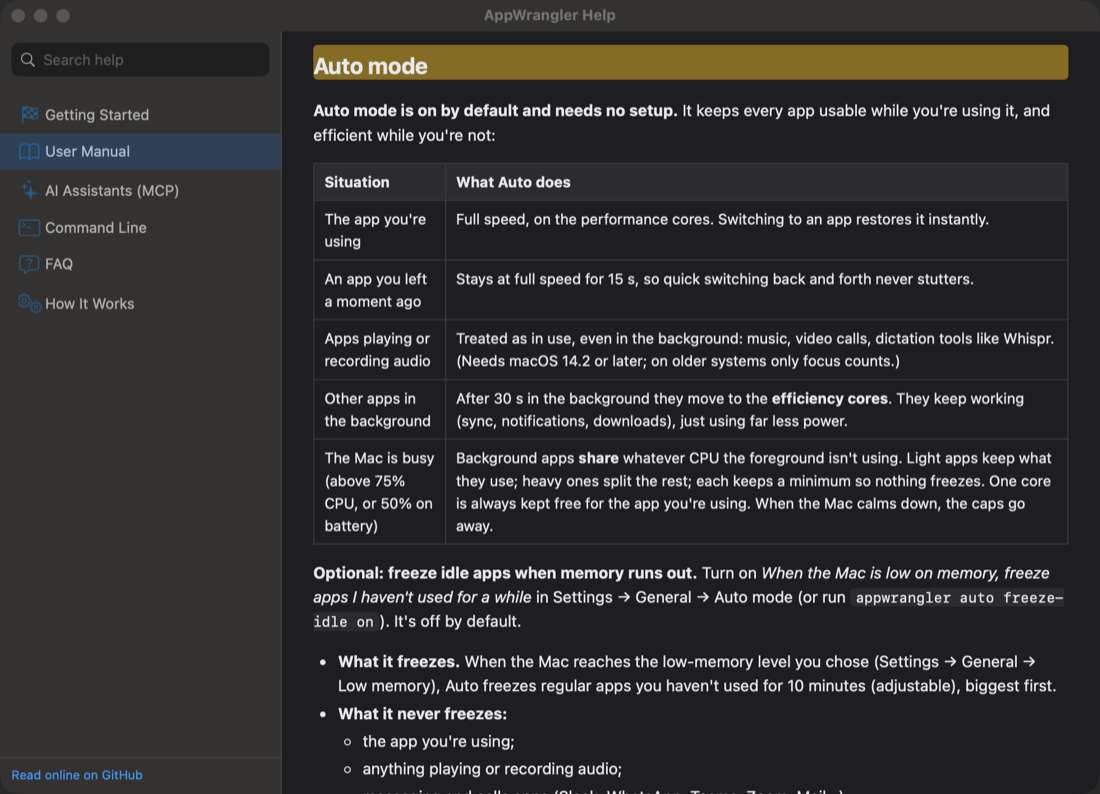
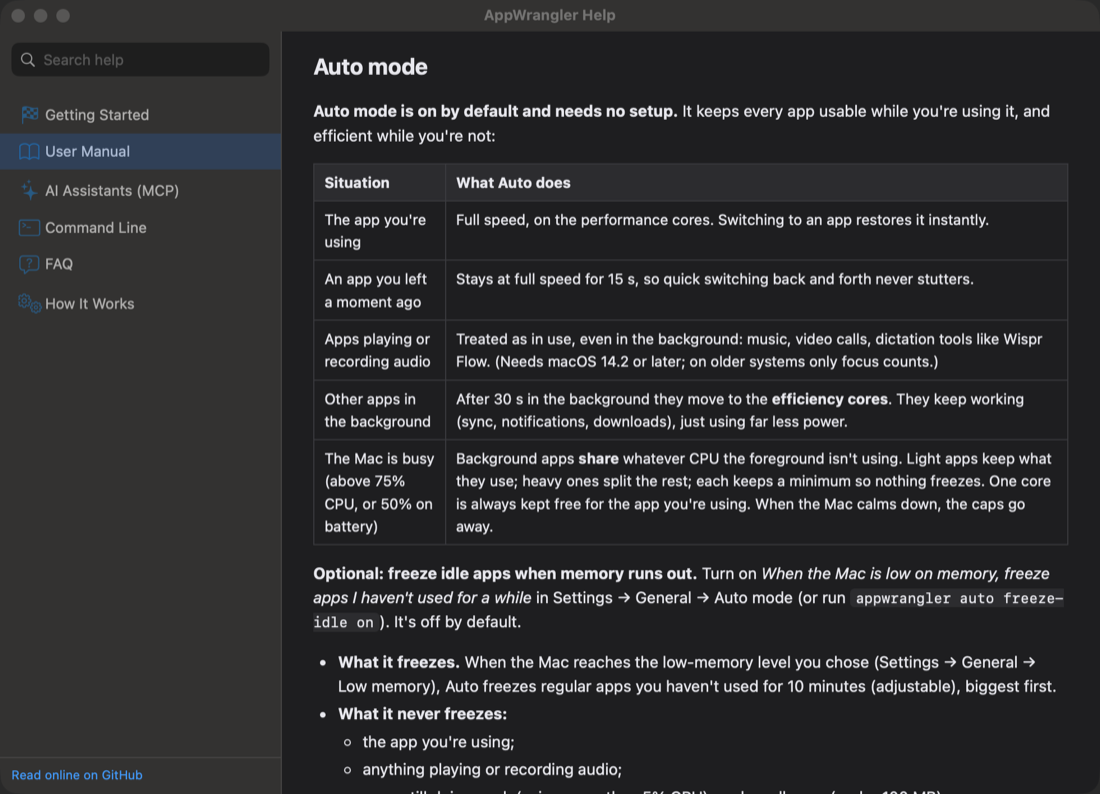
Neutral screenshots in README and manual (made-up demo data instead of real apps); Impact screenshot in the manual

diff --git a/docs/user-manual.md b/docs/user-manual.md
@@ -282,6 +282,8 @@ Each app is flagged at most once an hour. `appwrangler undo` reverts what these 
 
 ## Impact
 
+![Settings → Impact: CPU time and energy saved, time held back and frozen, and the Memory section with time short of memory, peak swap and swap read back](images/impact.png)
+
 **Settings → Impact** shows what AppWrangler has achieved, and what it cost to run, for the **Last hour**, **Today**, **7 days** or **30 days**. The same numbers are available from `appwrangler stats` and the [MCP server](mcp.md). The panel footer shows "saved … today".
 
 **How it helped:**
